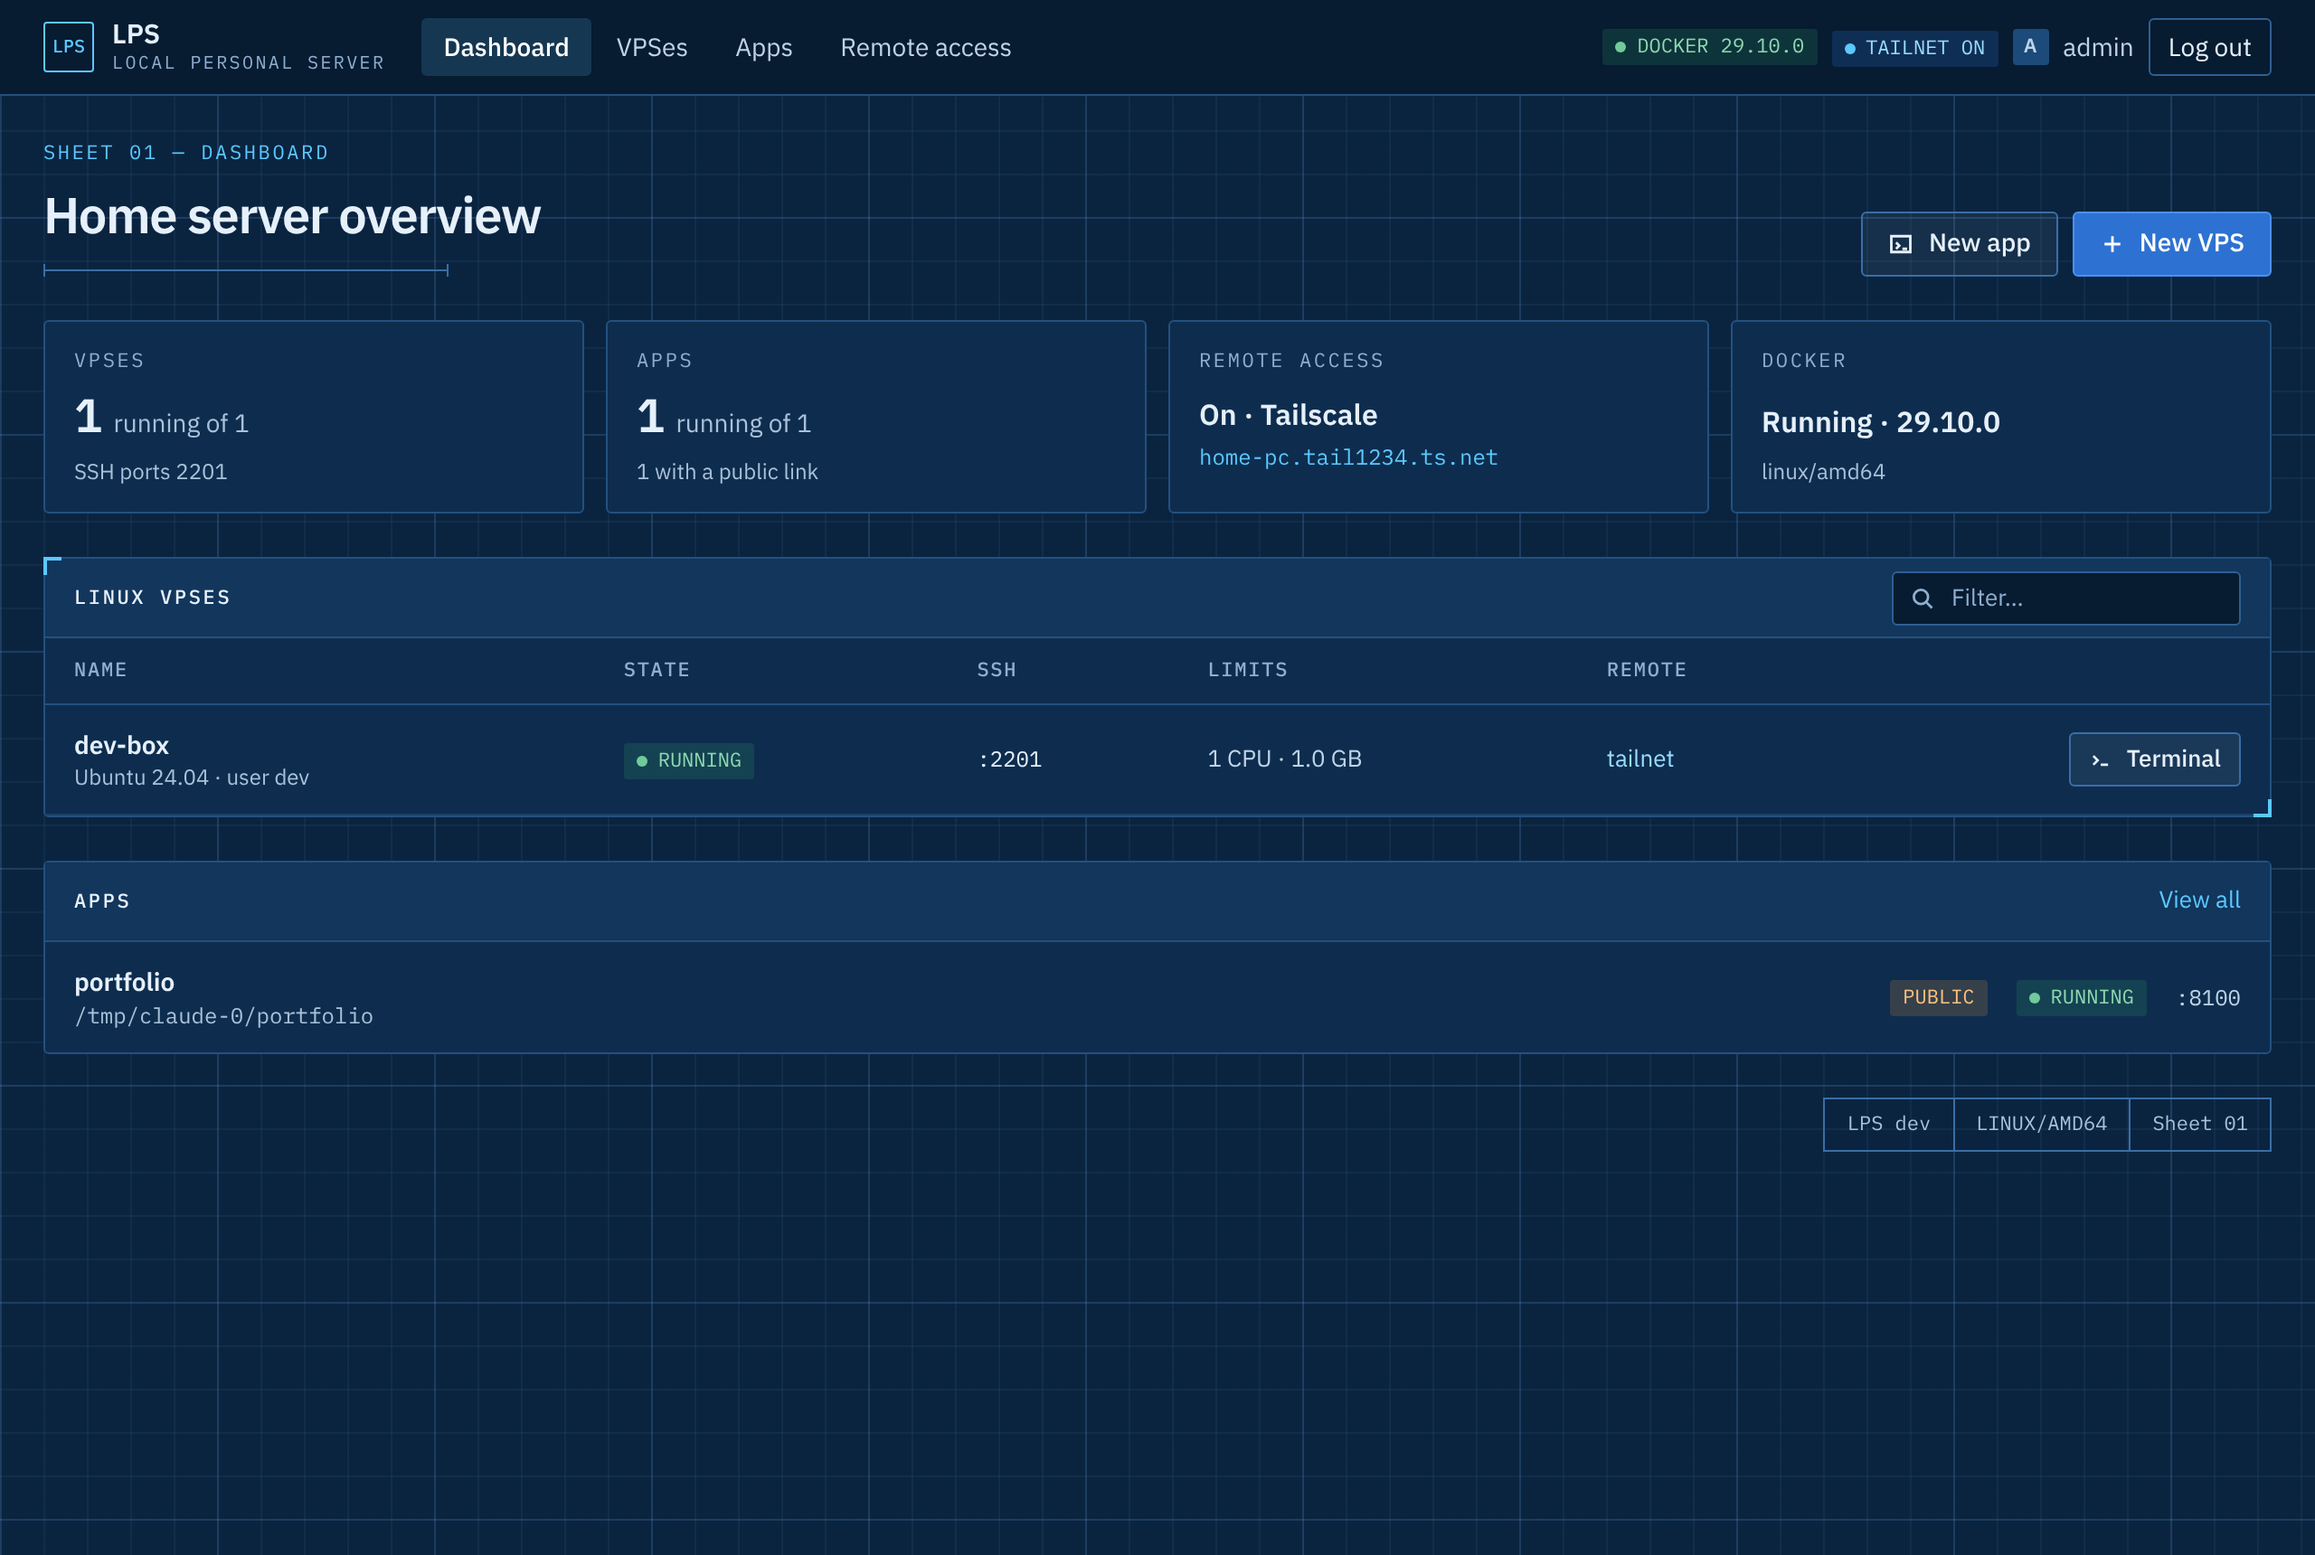
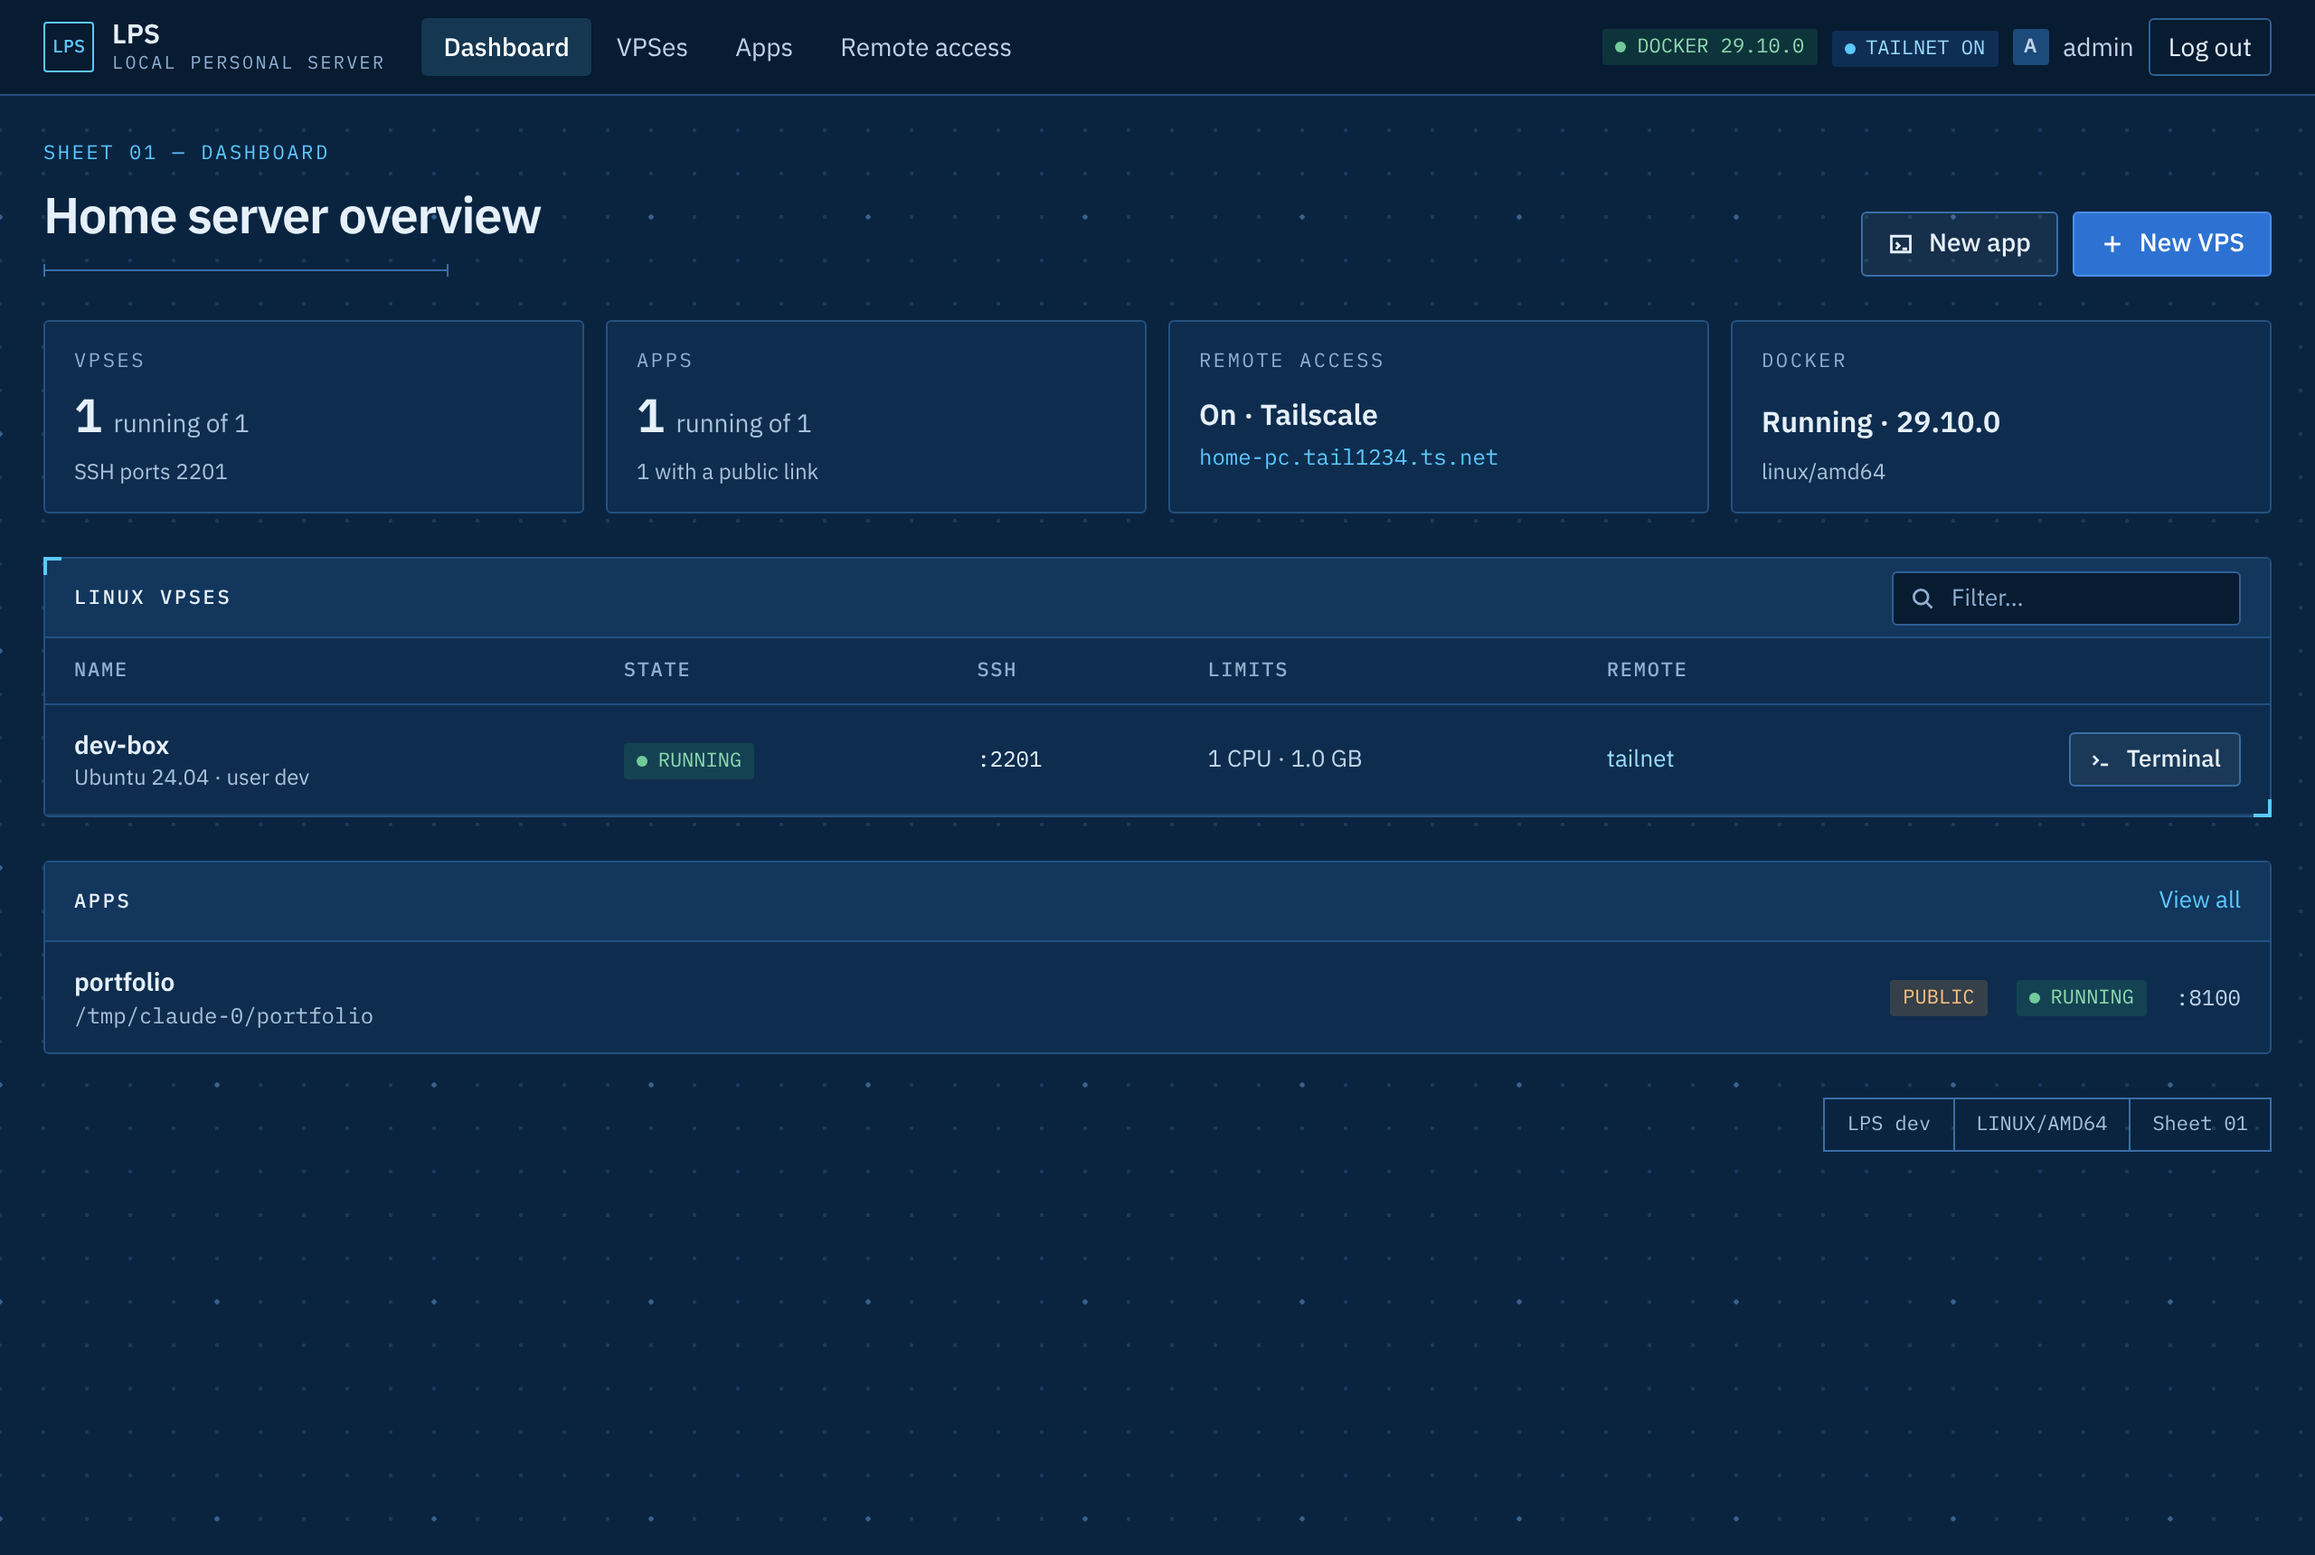
Use a dotted blueprint-paper background
Replace the grid lines with dots (every 24px, brighter every 120px) and
refresh the README screenshots.

Claude-Session: https://claude.ai/code/session_01MejdtqZpuvBXAj8bdDJ1sx

diff --git a/web/src/index.css b/web/src/index.css
@@ -47,13 +47,12 @@
     @apply bg-ground text-ink font-sans text-sm antialiased;
     line-height: 1.45;
     min-height: 100vh;
-    /* Blueprint paper: 24px minor and 120px major grid lines. */
+    /* Dotted blueprint paper: a dot every 24px, a brighter dot every 120px. */
     background-image:
-      linear-gradient(rgba(127, 190, 255, 0.06) 1px, transparent 1px),
-      linear-gradient(90deg, rgba(127, 190, 255, 0.06) 1px, transparent 1px),
-      linear-gradient(rgba(127, 190, 255, 0.11) 1px, transparent 1px),
-      linear-gradient(90deg, rgba(127, 190, 255, 0.11) 1px, transparent 1px);
-    background-size: 24px 24px, 24px 24px, 120px 120px, 120px 120px;
+      radial-gradient(circle, rgba(127, 190, 255, 0.3) 1.3px, transparent 1.5px),
+      radial-gradient(circle, rgba(127, 190, 255, 0.14) 1px, transparent 1.2px);
+    background-size: 120px 120px, 24px 24px;
+    background-position: -60px -60px, -12px -12px;
   }
   a {
     @apply text-cyan hover:text-cyan-soft;

diff --git a/README.md b/README.md
@@ -4,7 +4,7 @@ Turn your home PC into your own VPS host. LPS runs **Linux VPSes** (Ubuntu machi
 
 > Status: **early development**. Linux VPSes with a [browser terminal](#terminal-in-the-browser), app deploys (with generated Dockerfiles), [remote access with Tailscale](#remote-access-with-tailscale) and the [Windows installer](#install-on-windows) work. A reverse proxy with hostnames is next. See the [roadmap](#roadmap).
 
-The dashboard uses a "blueprint" look: Blueprint.js-style dense panels on navy grid paper, built with Tailwind 4 (tokens in `web/src/index.css`) and IBM Plex fonts bundled with the app, so it works offline.
+The dashboard uses a "blueprint" look: Blueprint.js-style dense panels on navy dotted paper, built with Tailwind 4 (tokens in `web/src/index.css`) and IBM Plex fonts bundled with the app, so it works offline.
 
 ![LPS dashboard](docs/images/dashboard.png)
 
